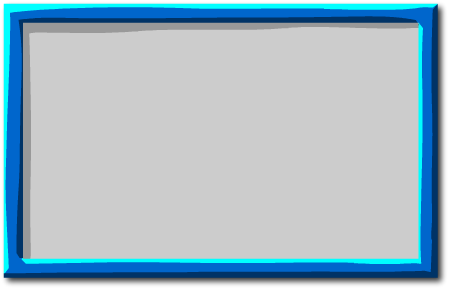
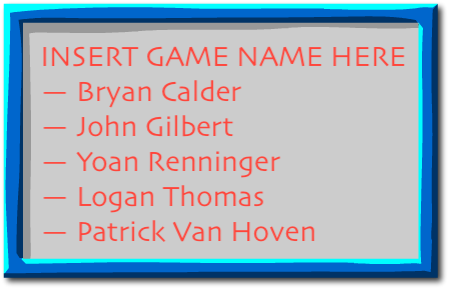
Commented out rate/range adjustmnts
Also made some unfinished changes to the credits image (pan.png)

diff --git a/TowerGameJS-Phase4/game.js b/TowerGameJS-Phase4/game.js
@@ -799,30 +799,32 @@ class Game {
   //+++++++++++++++++++++++++++++++++++++++++++++++++++++++++++ Other
 } // end Game class +++++++++++++++++++++++++++++++++++++++++++++++++++++++++++++
 
-window.onkeydown = function (e) {
-  var code = e.keyCode ? e.keyCode : e.which;
 
-  if (code == 85) { // u key
-    if (towerGame.bankValue >= 800) {
-      var upgrade = prompt("Type rate to increase fire rate (costs 1000)\nType range to increase range (Costs 800)").toLowerCase();
+//Rate and range adjustments
+// window.onkeydown = function (e) {
+//   var code = e.keyCode ? e.keyCode : e.which;
 
-      if ((upgrade == "range" && towerGame.bankValue >= 800) || (upgrade == "rate" && towerGame.bankValue >= 1000)) {
-        for (var i = 0; i < towerGame.towers.length; i++) {
-          var tower = towerGame.towers[i];
-          if (upgrade === "rate") {
-            tower.coolDown -= 200;
-            towerGame.bankValue -= 1000;
-          } else if (upgrade === "range") {
-            tower.range += 200;
-            towerGame.bankValue -= 800;
-          } else {
-            alert("Other options are invalid!");
-          }
-        }
-      }
-    } else {
-      alert("Insufficient Funds!");
-    }
-  }
-}
+//   if (code == 85) { // u key
+//     if (towerGame.bankValue >= 800) {
+//       var upgrade = prompt("Type rate to increase fire rate (costs 1000)\nType range to increase range (Costs 800)").toLowerCase();
+
+//       if ((upgrade == "range" && towerGame.bankValue >= 800) || (upgrade == "rate" && towerGame.bankValue >= 1000)) {
+//         for (var i = 0; i < towerGame.towers.length; i++) {
+//           var tower = towerGame.towers[i];
+//           if (upgrade === "rate") {
+//             tower.coolDown -= 200;
+//             towerGame.bankValue -= 1000;
+//           } else if (upgrade === "range") {
+//             tower.range += 200;
+//             towerGame.bankValue -= 800;
+//           } else {
+//             alert("Other options are invalid!");
+//           }
+//         }
+//       }
+//     } else {
+//       alert("Insufficient Funds!");
+//     }
+//   }
+// }
 
